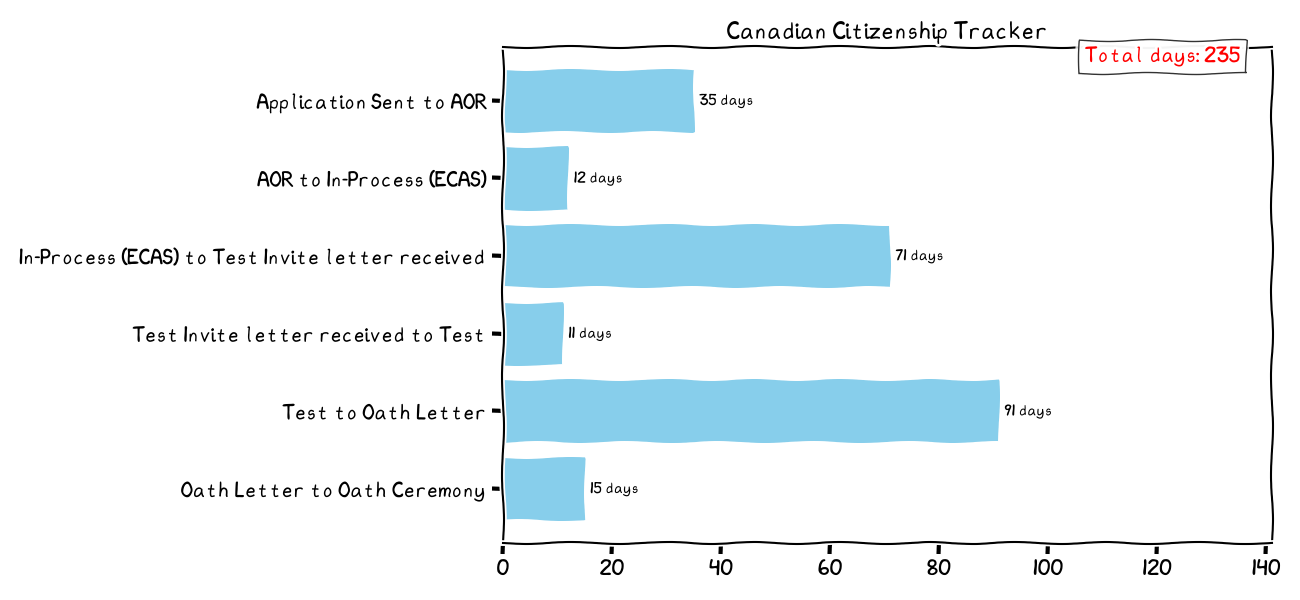
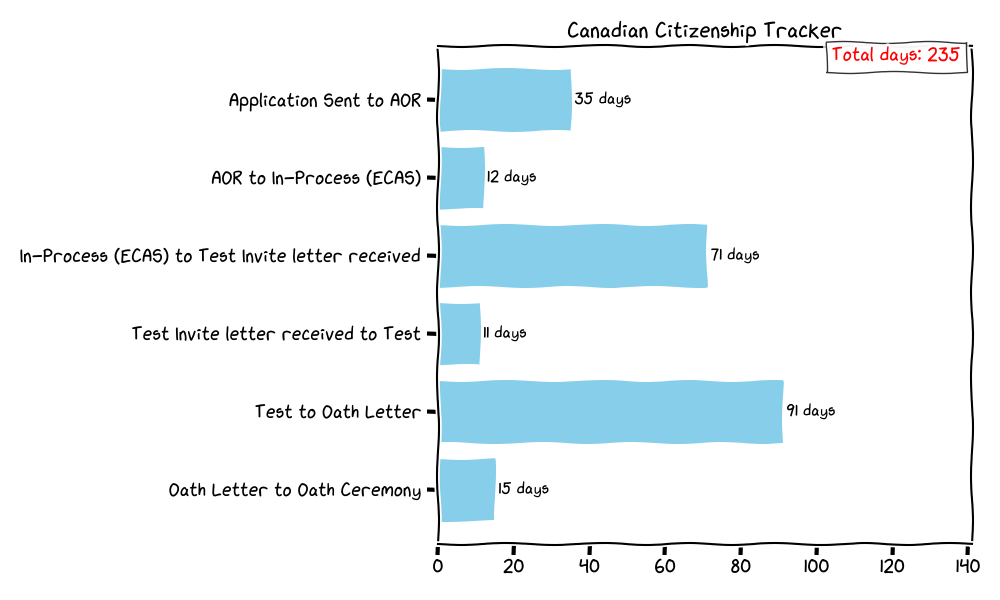
Updated fig size

diff --git a/citizenship/main.py b/citizenship/main.py
@@ -152,14 +152,14 @@ def plot_analytics(df):
     # Create the plot again
     plt.xkcd(scale=1, length=100, randomness=2)  # Apply xkcd style
 
-    fig, ax = plt.subplots(figsize=(13, 6))
+    fig, ax = plt.subplots(figsize=(10, 6))
     bars = ax.barh(df["Processing Step"], df["Average Time (Days)"], color='skyblue')
 
     # Add text to bars
     for bar in bars:
         width = bar.get_width()
         ax.text(width + 1, bar.get_y() + bar.get_height() / 2, f"{int(width)} days",
-                va='center', ha='left', fontsize=10)
+                va='center', ha='left', fontsize=12)
 
     # Add "Total days" text in the top right
     ax.text(max(df["Average Time (Days)"]) + 30, -0.5,
@@ -181,7 +181,7 @@ def plot_analytics(df):
 
 
 def main():
-    # get_and_write_data()
+    get_and_write_data()
     data = read_data()
     df = pd.DataFrame(data)
     field_to_header_name = get_field_to_columns()
